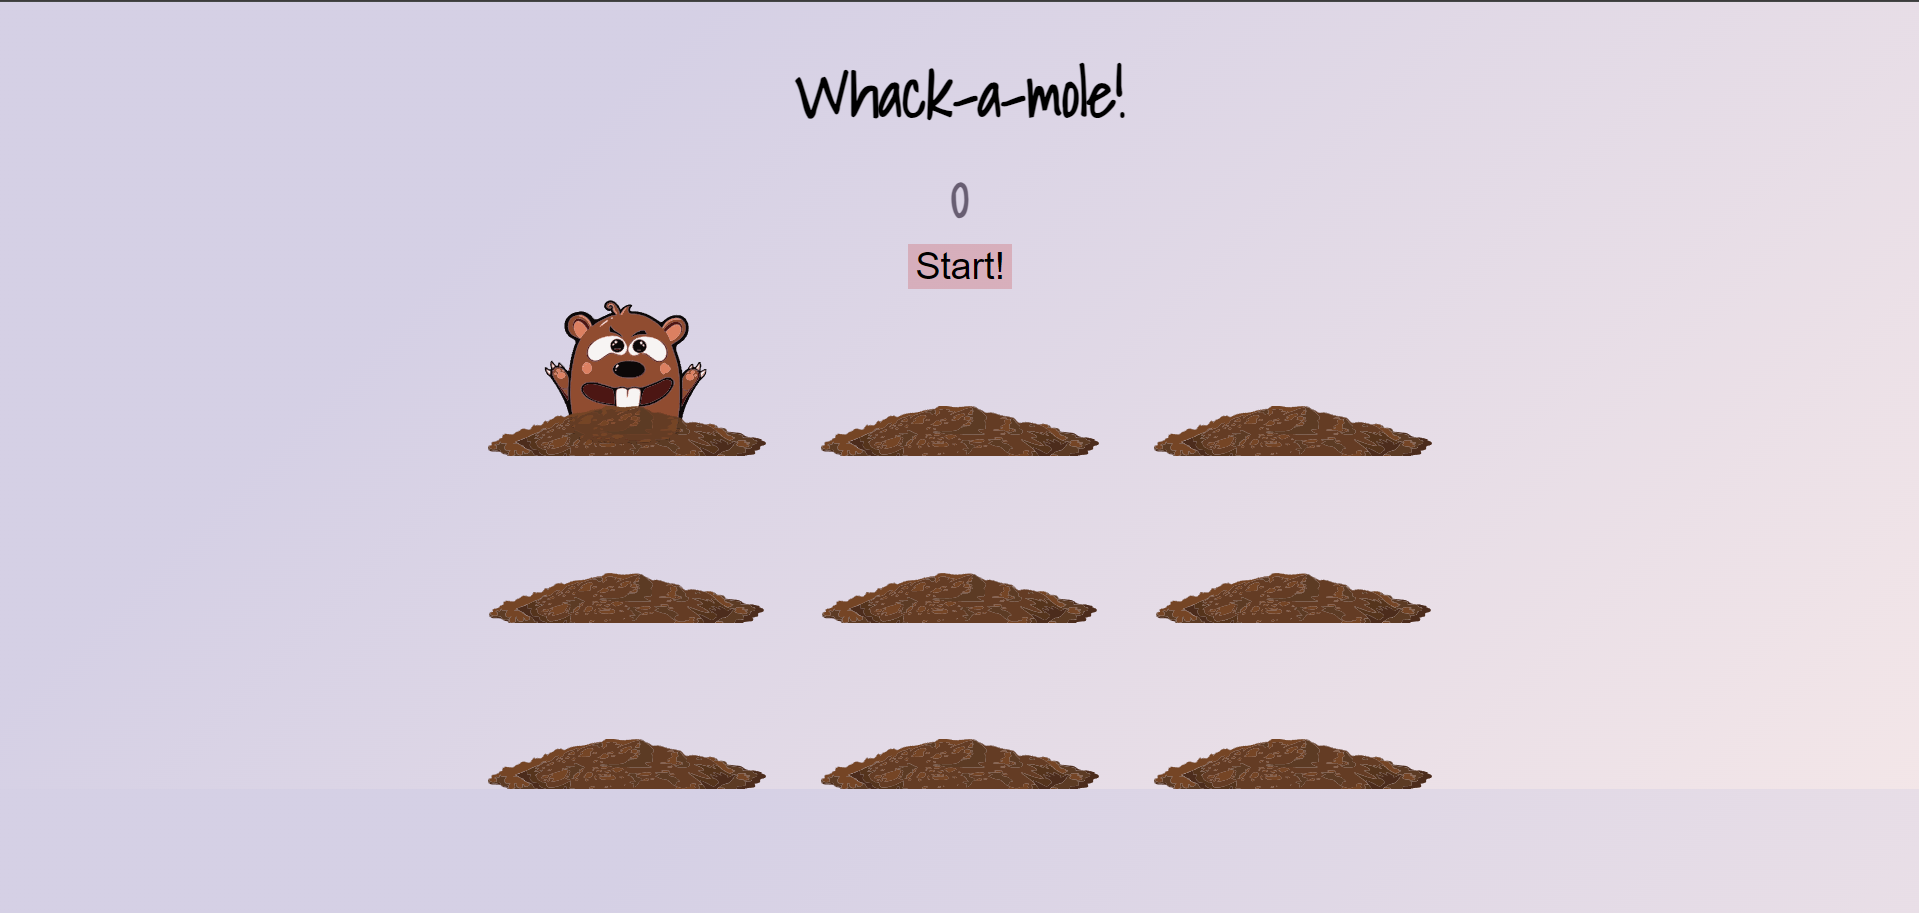
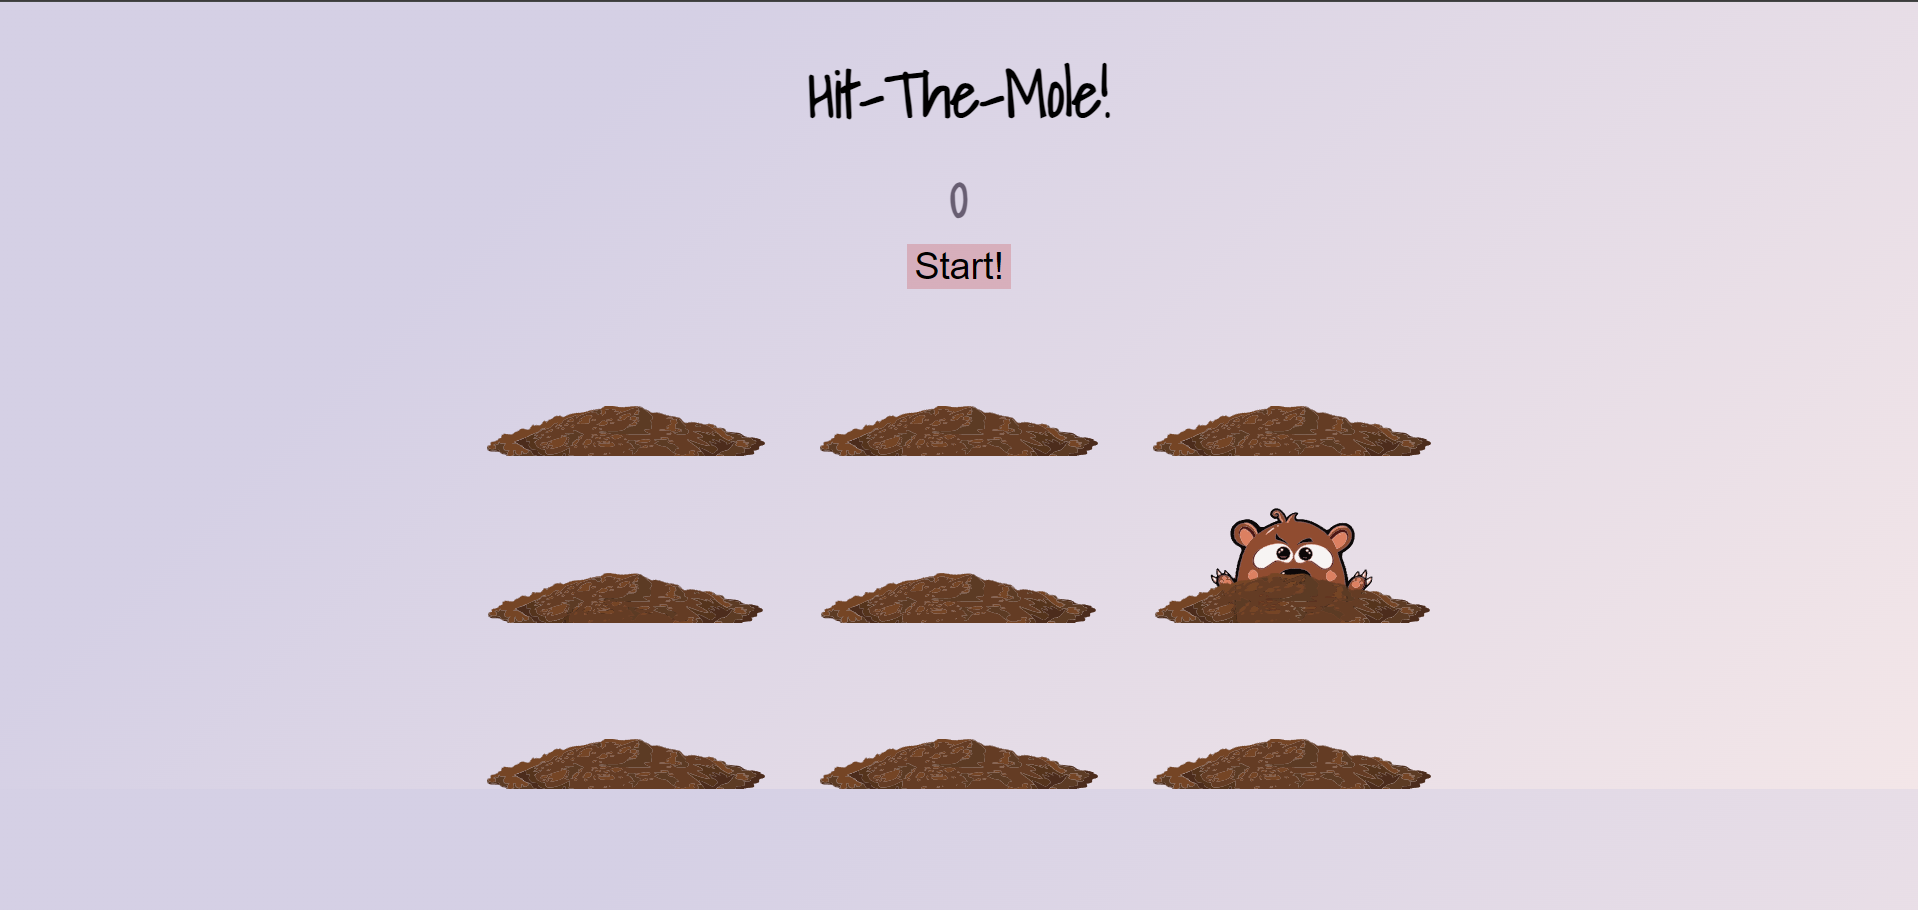
minor bug fix

diff --git a/Games/Hit_The_Mole/index.html b/Games/Hit_The_Mole/index.html
@@ -11,7 +11,7 @@
     <link rel="stylesheet" href="styles.css" />
   </head>
   <body>
-    <h1>Whack-a-mole!</h1>
+    <h1>Hit-The-Mole!</h1>
     <h1 class="score">0</h1>
     <div class="start">
       <button onClick="startGame()">Start!</button>
